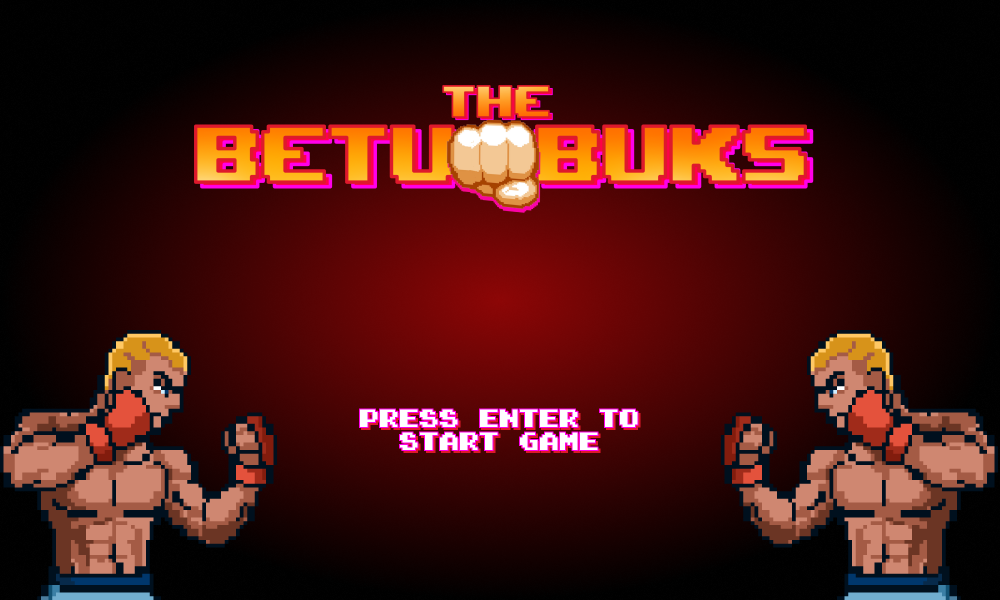
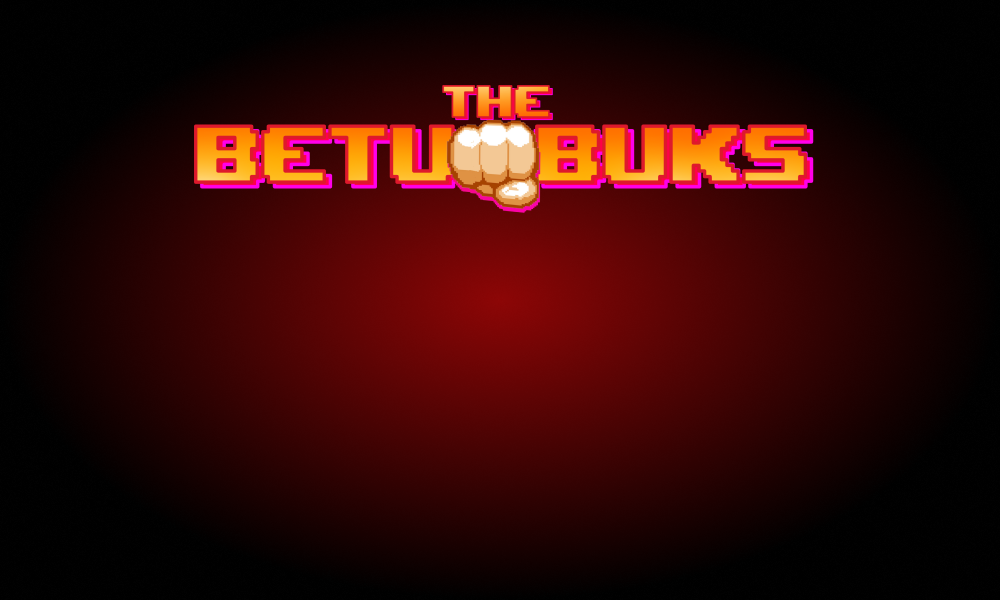
update menu, nambahin assets

Changed region(s): [[0.713, 0.54, 1.0, 1.0], [0.0, 0.54, 0.279, 1.0], [0.341, 0.66, 0.651, 0.78]]

diff --git a/main.py b/main.py
@@ -18,7 +18,9 @@ clock = pygame.time.Clock()
 FPS = 60
 last_count_update = pygame.time.get_ticks()
 
-game_name = pygame.image.load("assets/images/The Betumbuks.png").convert_alpha()
+bg_img = pygame.image.load("assets/images/background/bg-menu.png").convert_alpha()
+glwin_img = pygame.image.load("assets/images/background/bg-glwin.png").convert_alpha()
+lswin_img = pygame.image.load("assets/images/background/bg-lswin.png").convert_alpha()
 
 # load music and sounds
 pygame.mixer.music.load("assets/audio/bg.mp3")
@@ -34,10 +36,10 @@ icon = pygame.image.load("assets/images/icons/icon.png").convert_alpha()
 pygame.display.set_icon(icon)
 
 # define font
-menu_font_big = pygame.font.Font("assets/fonts/turok.ttf", 75)
-menu_font_small = pygame.font.Font("assets/fonts/turok.ttf", 50)
-count_font = pygame.font.Font("assets/fonts/turok.ttf", 80)
-score_font = pygame.font.Font("assets/fonts/turok.ttf", 30)
+menu_font_big = pygame.font.Font("assets/fonts/Super Mario Bros.ttf", 40)
+menu_font_small = pygame.font.Font("assets/fonts/Super Mario Bros.ttf", 20)
+count_font = pygame.font.Font("assets/fonts/Super Mario Bros.ttf", 40)
+score_font = pygame.font.Font("assets/fonts/Super Mario Bros.ttf", 15)
 
 
 # function for drawing text
@@ -48,35 +50,21 @@ def draw_text(text, font, text_col, x, y):
 
 def draw_menu():
     if PAUSE_MENU:
-        name_len = GAME_NAME.__len__()
         background_sprites.draw(screen)
         background_sprites.update()
-        name_pos_x = SCREEN_WIDTH - ((name_len * 30) * 2)
-        draw_text("PAUSE MENU !!!", menu_font_big, RED, name_pos_x, 60)
-        draw_text("Press Enter to Resume", menu_font_small, GREEN, 250, 330)
+        draw_text("PAUSE MENU !!!", menu_font_big, RED, 250, 60)
+        draw_text("Press Enter to Resume", menu_font_small, WHITE, 300, 500)
     elif END_MENU:
-        screen.fill((0, 0, 0))
-        name_len = GAME_NAME.__len__()
-        name_pos_x = SCREEN_WIDTH - ((name_len * 30) * 2)
-        BOXER_DATA[1] = 3
         if player.health == 0:
+            screen.blit(lswin_img, (0, 0))
             enemy.menu_character(screen)
         elif enemy.health == 0:
+            screen.blit(glwin_img, (0, 0))
             player.menu_character(screen)
-        draw_text(
-            "La Squadra Victory" if player.health == 0 else "Green Legion Victory", menu_font_big, RED,
-            200 if player.health == 0 else 180,
-            60,
-        )
-        draw_text("Press Enter to Quit", menu_font_small, WHITE, 250, 400)
     else:
-        name_len = GAME_NAME.__len__()
-        name_pos_x = SCREEN_WIDTH - ((name_len * 30) * 2)
-        screen.fill((0, 0, 0))
-        BOXER_DATA[1] = 3
-        draw_text(GAME_NAME, menu_font_big, WHITE, name_pos_x, 60)
-        draw_text("Press Enter to start", menu_font_small, RED, 250, 440)
+        screen.blit(bg_img, (0, 0))
         player.menu_character(screen)
+        draw_text("Press Enter to Start", menu_font_small, WHITE, 300, 500)
     clock.tick(45)
 
 
@@ -117,8 +105,8 @@ while run:
         green_health_bar.draw(screen)
         lasquad_health_bar.update(enemy.health)
         lasquad_health_bar.draw(screen)
-        draw_text("Green Legion", score_font, WHITE, 20, 30)
-        draw_text("La Squadra", score_font, WHITE, 840, 30)
+        draw_text("Green Legion", score_font, WHITE, 20, 50)
+        draw_text("La Squadra", score_font, WHITE, 830, 50)
 
         # update countdown
         if intro_count <= 0:

diff --git a/fighter.py b/fighter.py
@@ -265,7 +265,7 @@ class Fighter:
             self.action += 1
             if self.action > len(self.animation_list[self.action]):
                 self.action = 0
-        surface.blit(pygame.transform.scale_by(self.image, 1.25), (350, 150))
+        surface.blit(pygame.transform.scale_by(self.image, 1.25), (350, 200))
 
     def attack(self, target):
         if self.attack_cooldown == 0:

diff --git a/data.py b/data.py
@@ -25,5 +25,11 @@ BOXER_SCALE = 1
 BOXER_OFFSET = [112, 50]
 BOXER_DATA = [BOXER_SIZE, BOXER_SCALE, BOXER_OFFSET]
 
+# define fighter variables
+BOXER_SIZE = 250
+BOXER_SCALE = 1
+BOXER_OFFSET = [112, 50]
+BOXER_BG = [BOXER_SIZE, BOXER_SCALE, BOXER_OFFSET]
+
 # define number of steps in each animation
 BOXER_ANIMATION_STEPS = [6, 10, 4, 14, 14, 7, 6, 5, 3, 3]
